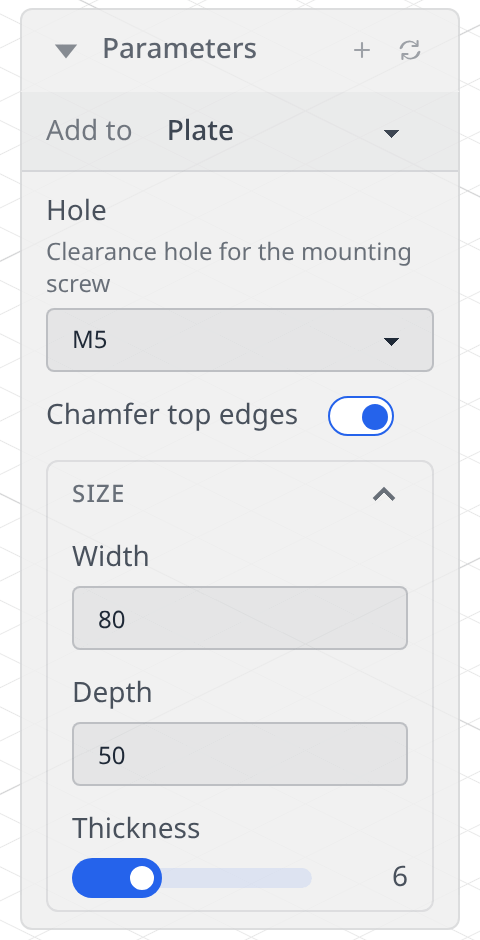
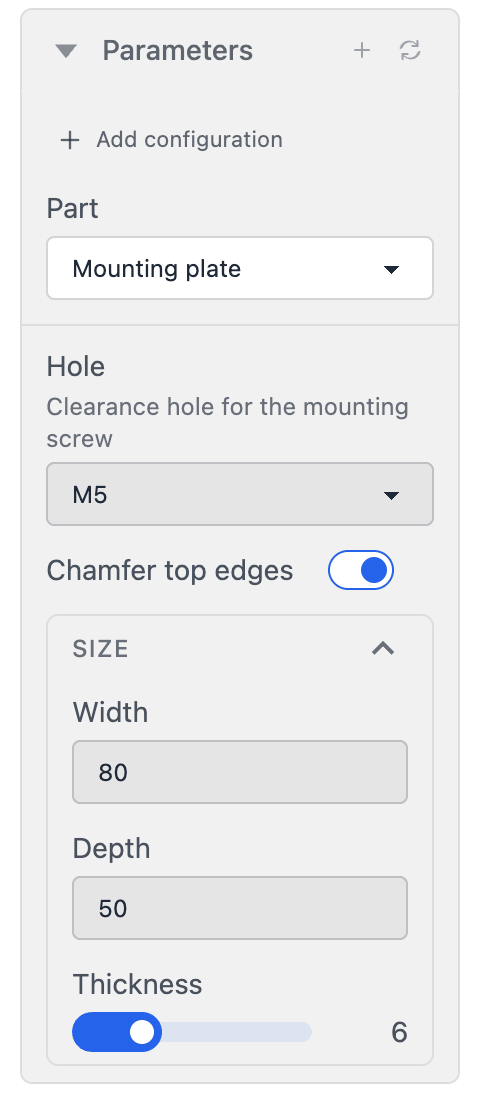
docs: the Parameters panel's Configuration and Part rows and Duplicate… in the guides, the band, menu and grid screenshots retaken, and the two-part grid from a shelf bracket and its backing plate

diff --git a/website/docs/part/_examples/part-param.js b/website/docs/part/_examples/part-param.js
@@ -5,7 +5,7 @@ import { coincident, distance, fix, horizontal, vertical } from 'fluidcad/constr
 // corner, extruded to a thickness. Every param() is a control in the
 // Parameters panel; an assembly sets them per instance —
 // insert(plate, { Width: 120, Hole: 6.6 }).
-export const plate = part('Plate', () => {
+export const plate = part('Mounting plate', () => {
     // highlight-start
     // Number fields with bounds. The label is the key an override uses.
     const width = param('Width', 80, 'number', { min: 40, max: 200, step: 5, group: 'Size' });
